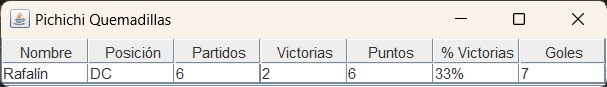
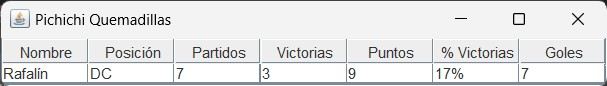
Last 2022 game

diff --git a/test/TestQuemadillas.java b/test/TestQuemadillas.java
@@ -26,7 +26,7 @@ public class TestQuemadillas {
 		List<Player> lista = initialTest();
 		//showData(lista);
 		//topScorers(lista,"poi");
-		table(lista);
+		tableTop(lista);
 	}
 	
 	
@@ -103,7 +103,7 @@ public static void tableRafalin(List<Player> ls) {
     	   if(p.getId()==11) {
     		   data[0]= new String[] {p.getName(),p.getPosition(),p.getGames().toString(),
 	   					  p.getVictories().toString(), p.getPoints().toString(),
-	   					  String.valueOf((p.getVictories()*100/p.getGames())+"%"),
+	   					  String.valueOf((p.getVictories()+1*100/p.getGames())+"%"),
 	   					  "7"
 						 };
     		   break;
